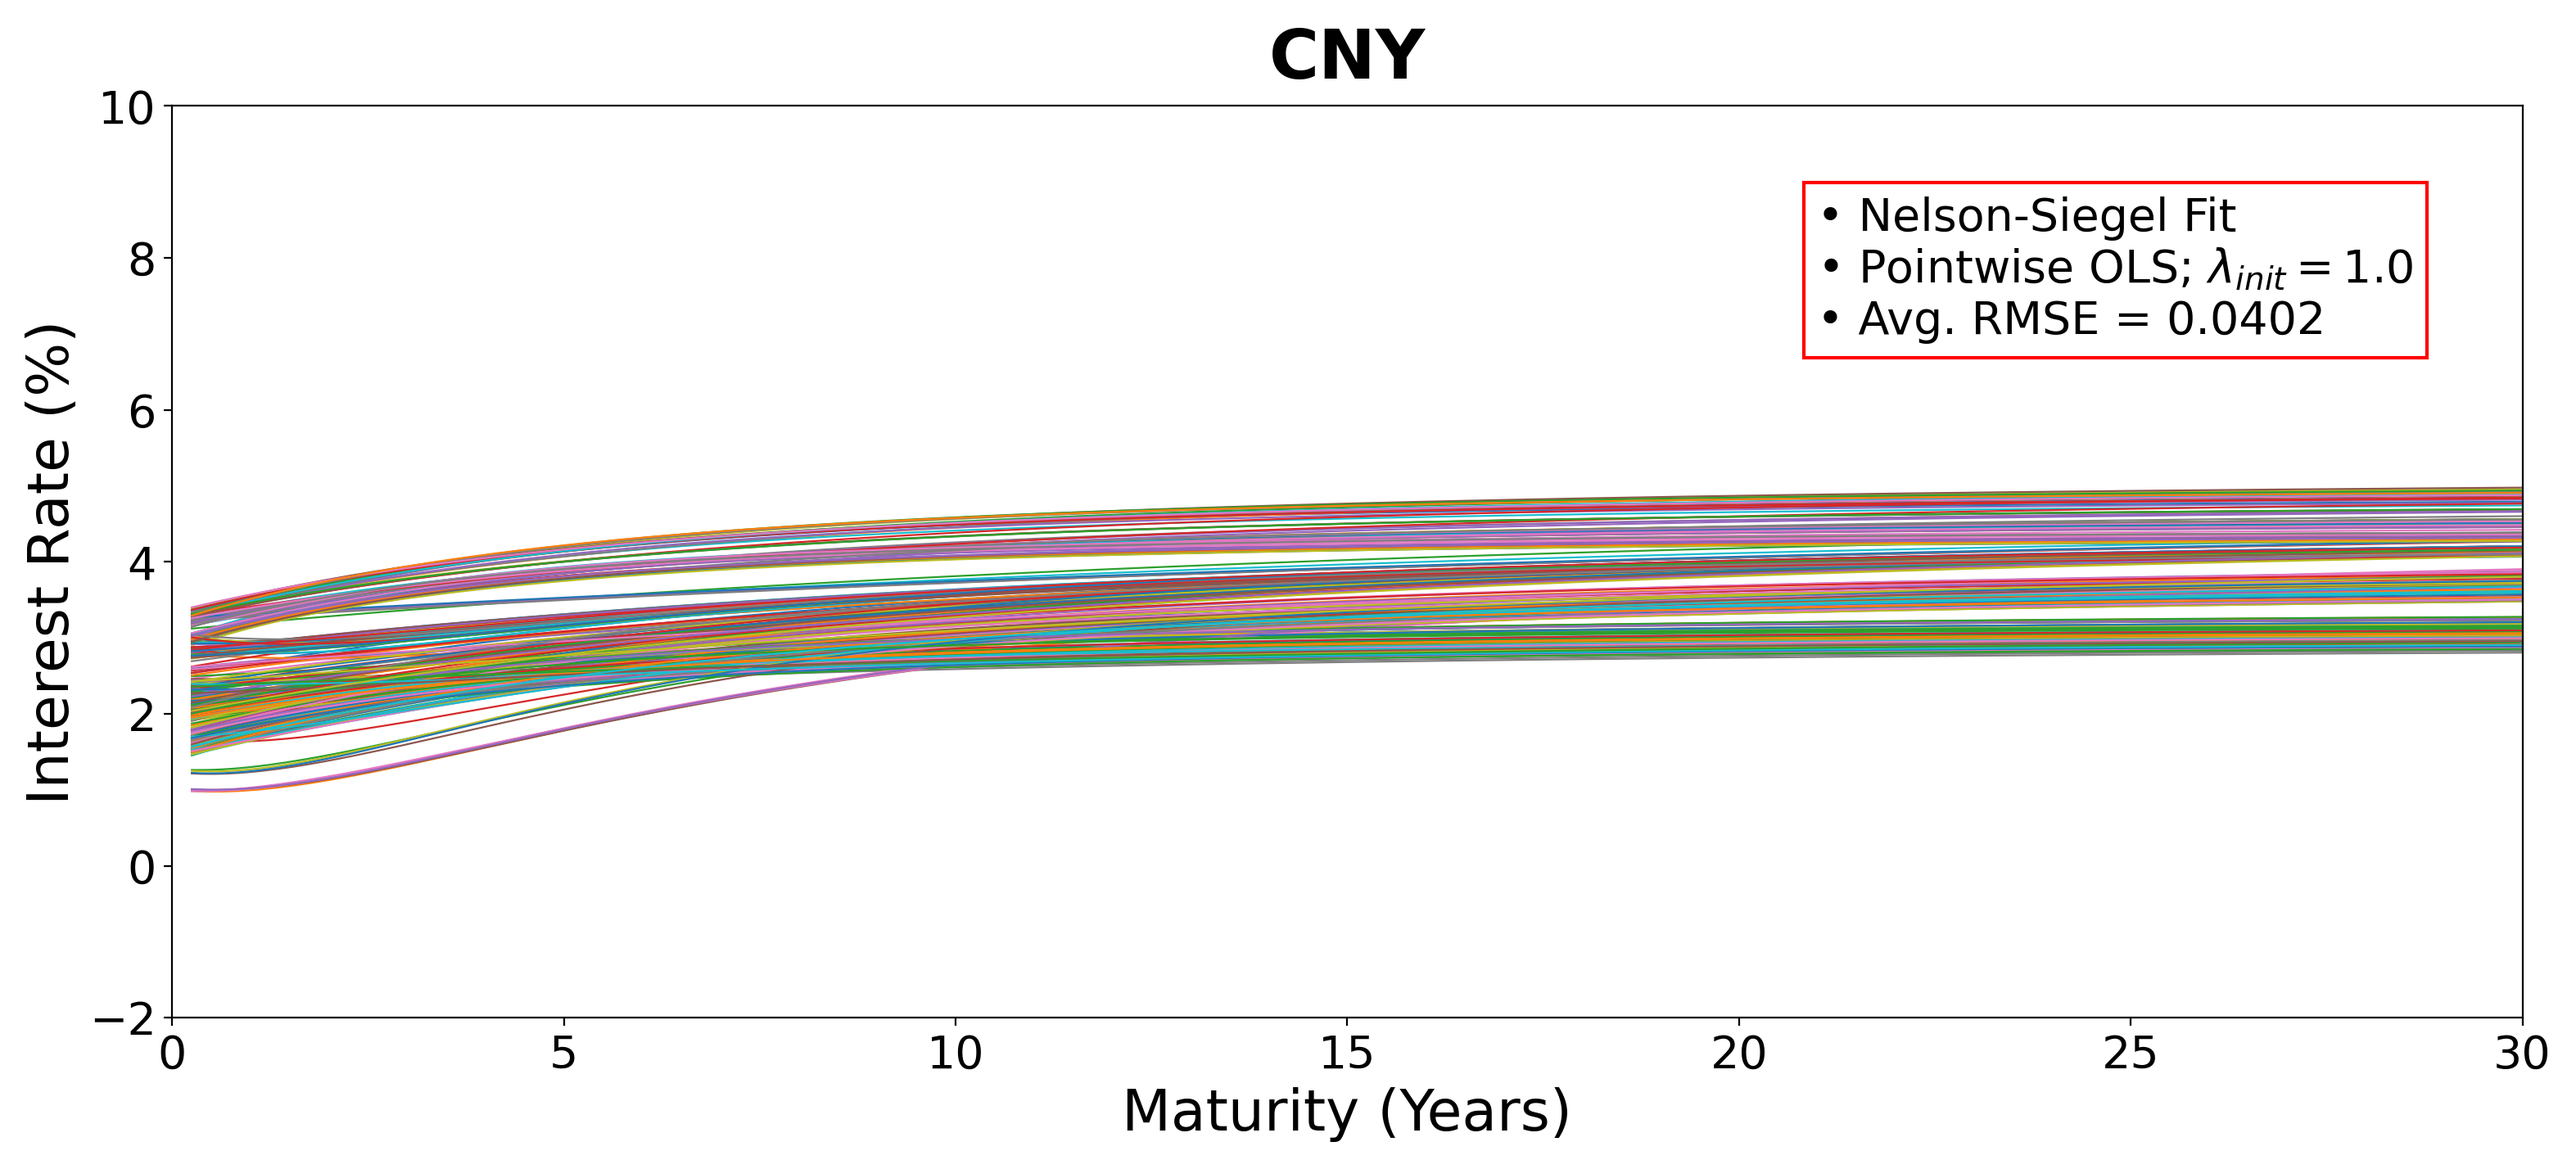
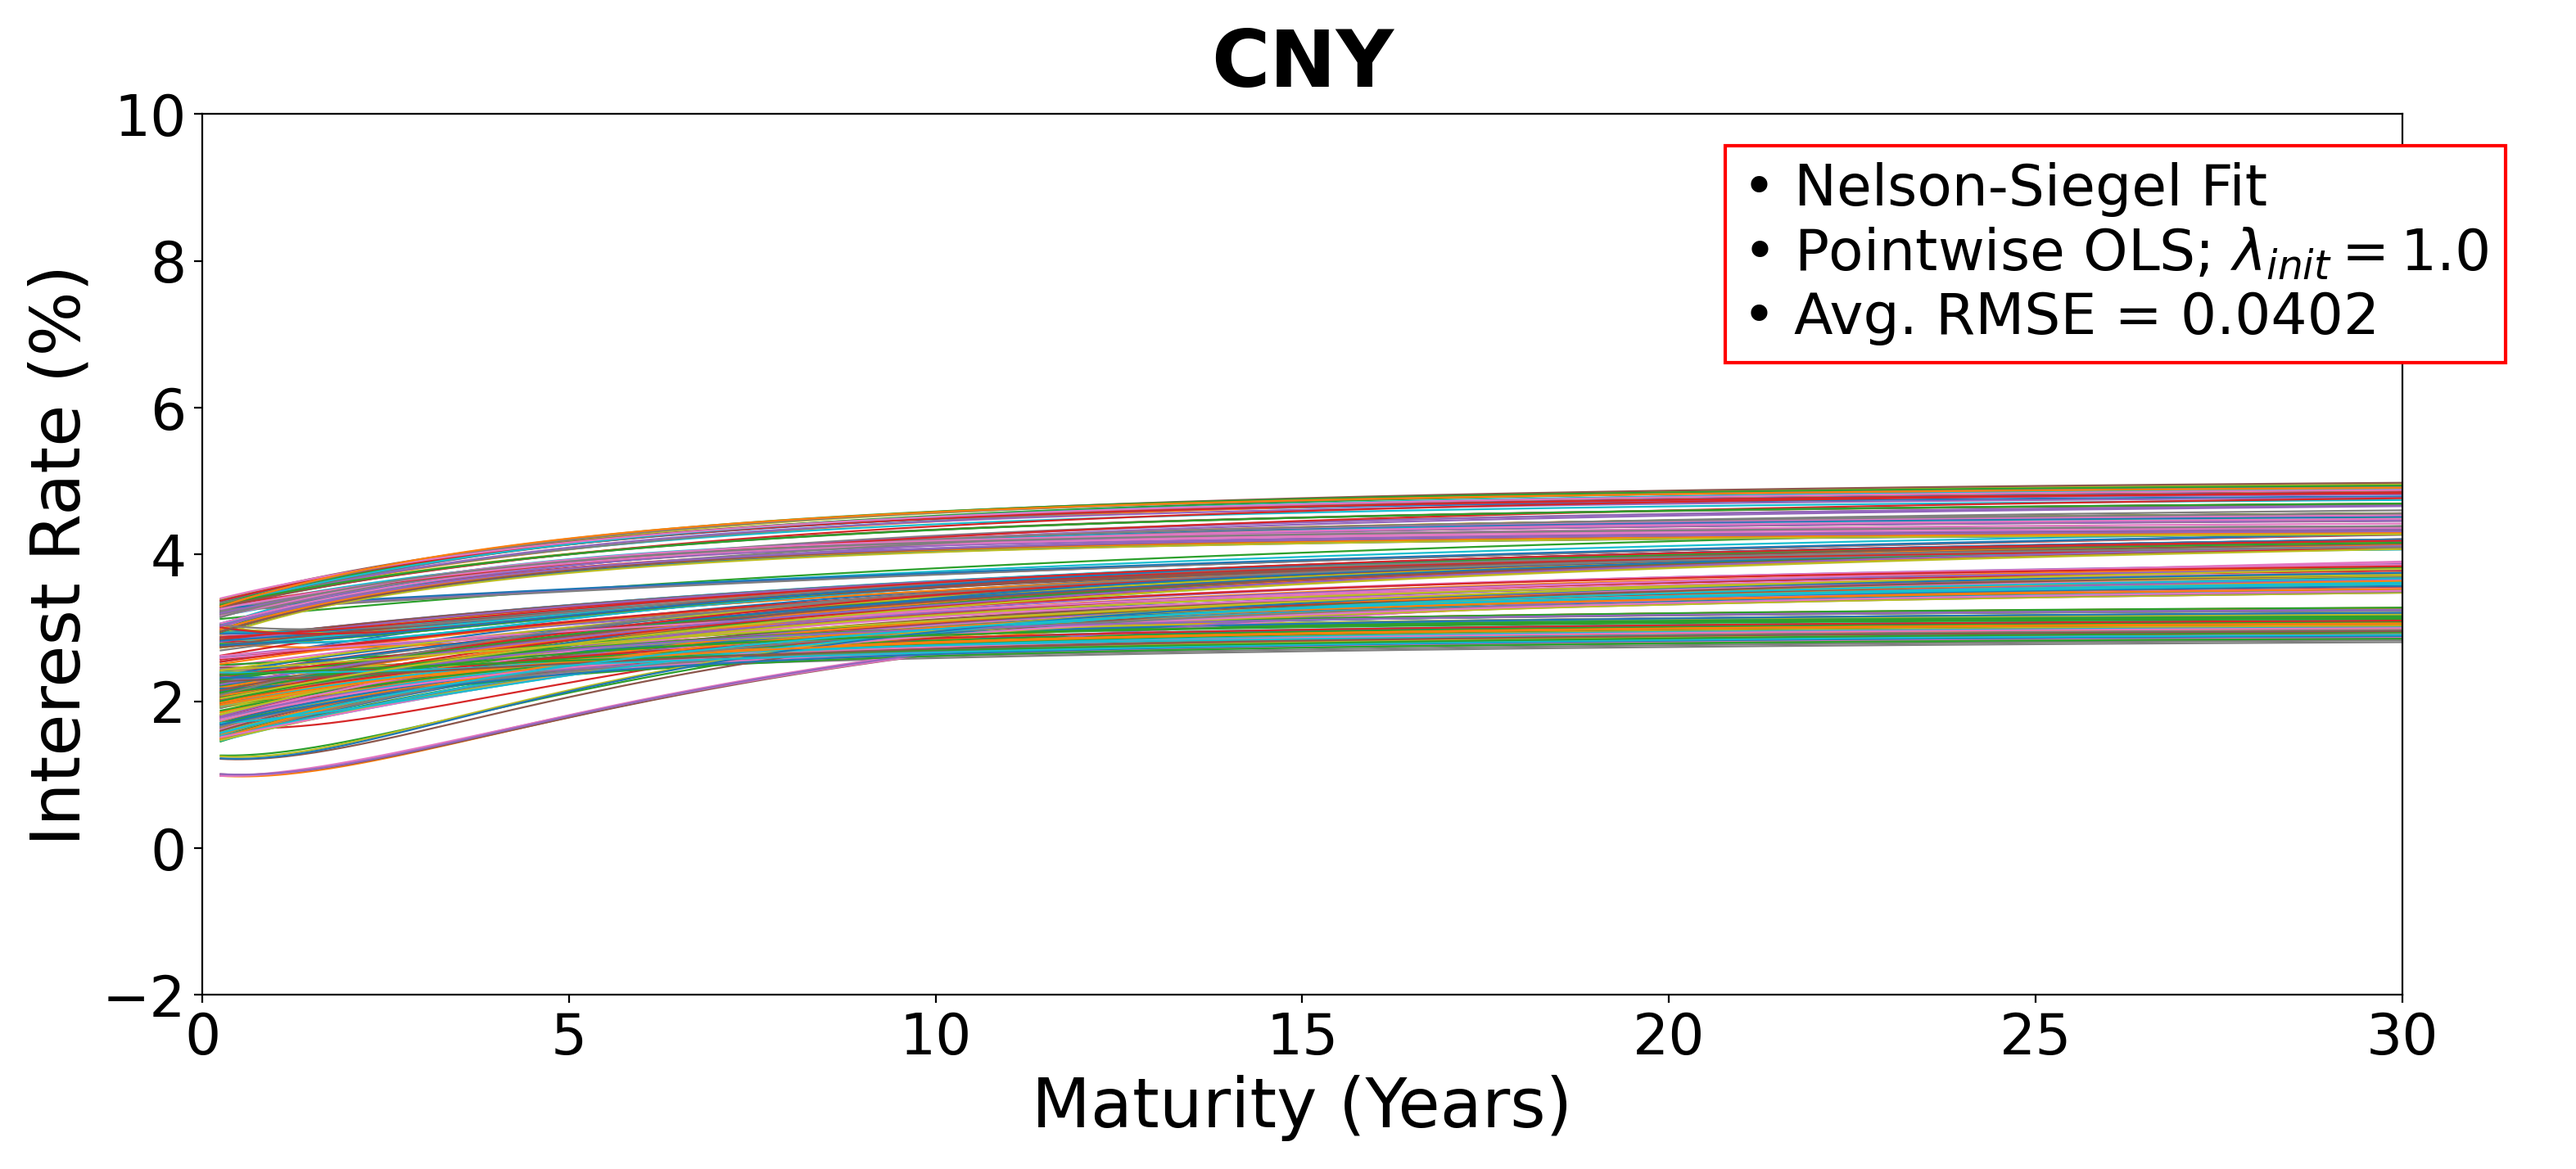
rd 2 resize

diff --git a/Chapter 2/parametric_models/yplot_ns_pointwise.py b/Chapter 2/parametric_models/yplot_ns_pointwise.py
@@ -35,16 +35,16 @@ def yield_curves_plot(maturities_years, fitted_curves, rmse_values, title, save_
     for curve in fitted_curves:
         ax.plot(x_grid, curve(x_grid), linewidth=0.8)
         
-    TICK_FS = 20
+    TICK_FS = 25
     ax.tick_params(axis="both", which="major", labelsize=TICK_FS)
     ax.tick_params(axis="both", which="minor", labelsize=TICK_FS)
     
     ax.xaxis.get_offset_text().set_size(TICK_FS)
     ax.yaxis.get_offset_text().set_size(TICK_FS)
 
-    ax.set_xlabel("Maturity (Years)", fontsize=25)
-    ax.set_ylabel("Interest Rate (%)", fontsize=25)
-    ax.set_title(title, fontsize=30, fontweight="bold", pad=12)
+    ax.set_xlabel("Maturity (Years)", fontsize=30)
+    ax.set_ylabel("Interest Rate (%)", fontsize=30)
+    ax.set_title(title, fontsize=35, fontweight="bold", pad=12)
     ax.set_ylim(-2, 10)
     ax.set_xlim(left=0, right=x_max)
 
@@ -59,7 +59,7 @@ def yield_curves_plot(maturities_years, fitted_curves, rmse_values, title, save_
     ax.text(
         0.70, 0.75, info,
         transform=ax.transAxes,
-        fontsize=20,
+        fontsize=25,
         bbox=dict(boxstyle="square", facecolor="white", edgecolor="red", linewidth=1.5)
     )
 
